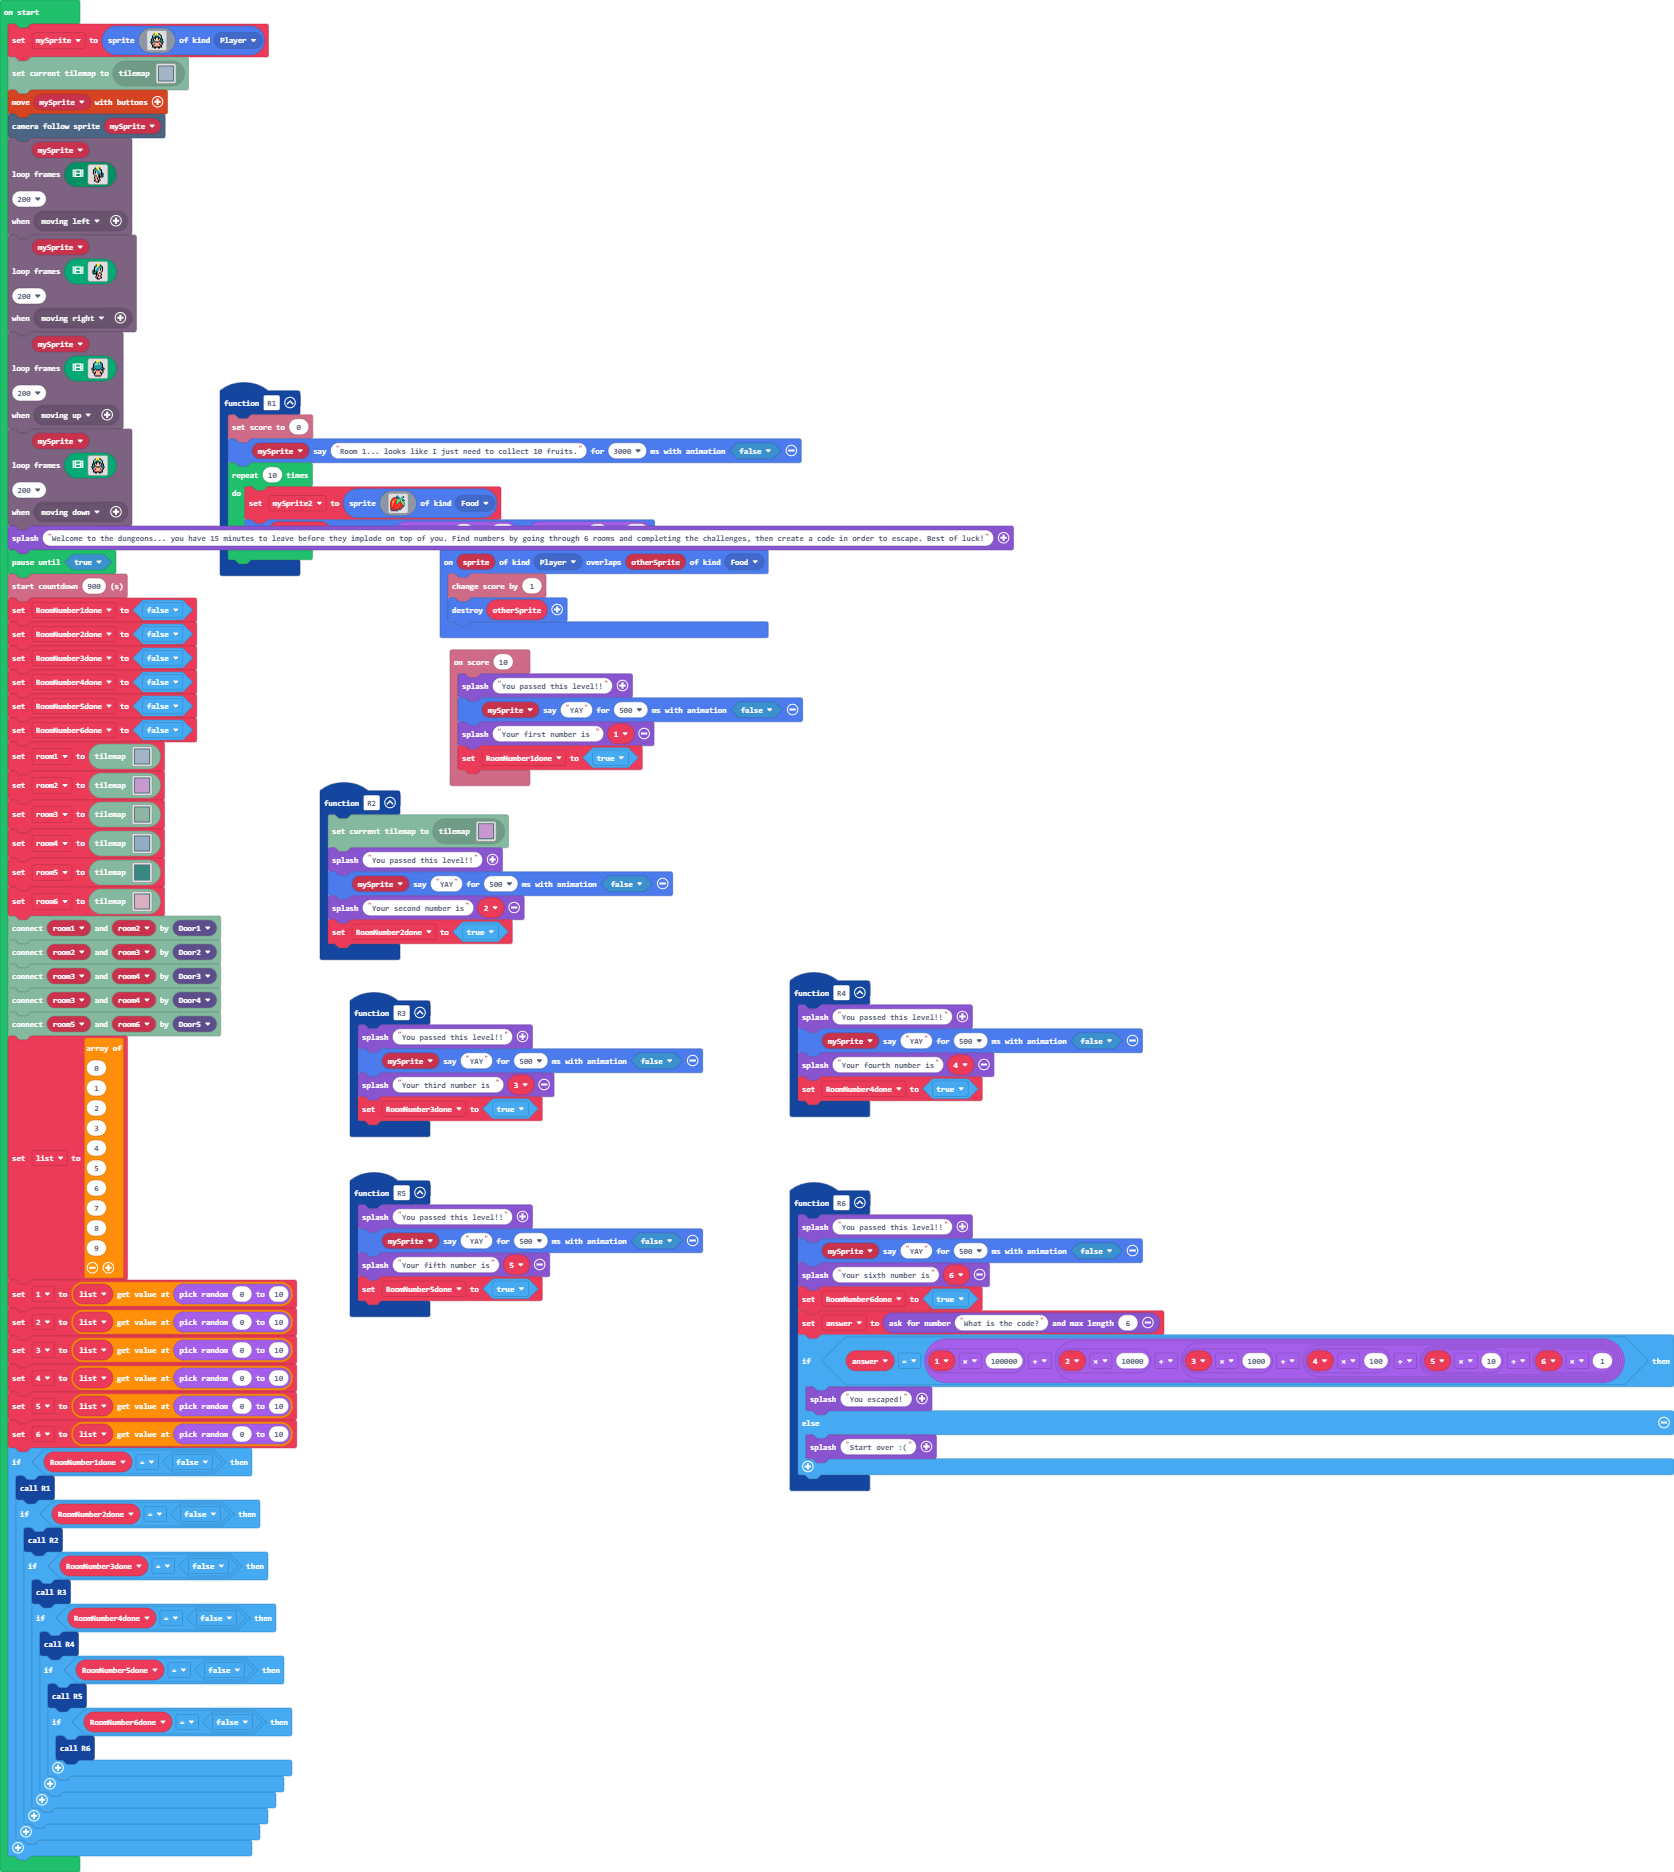
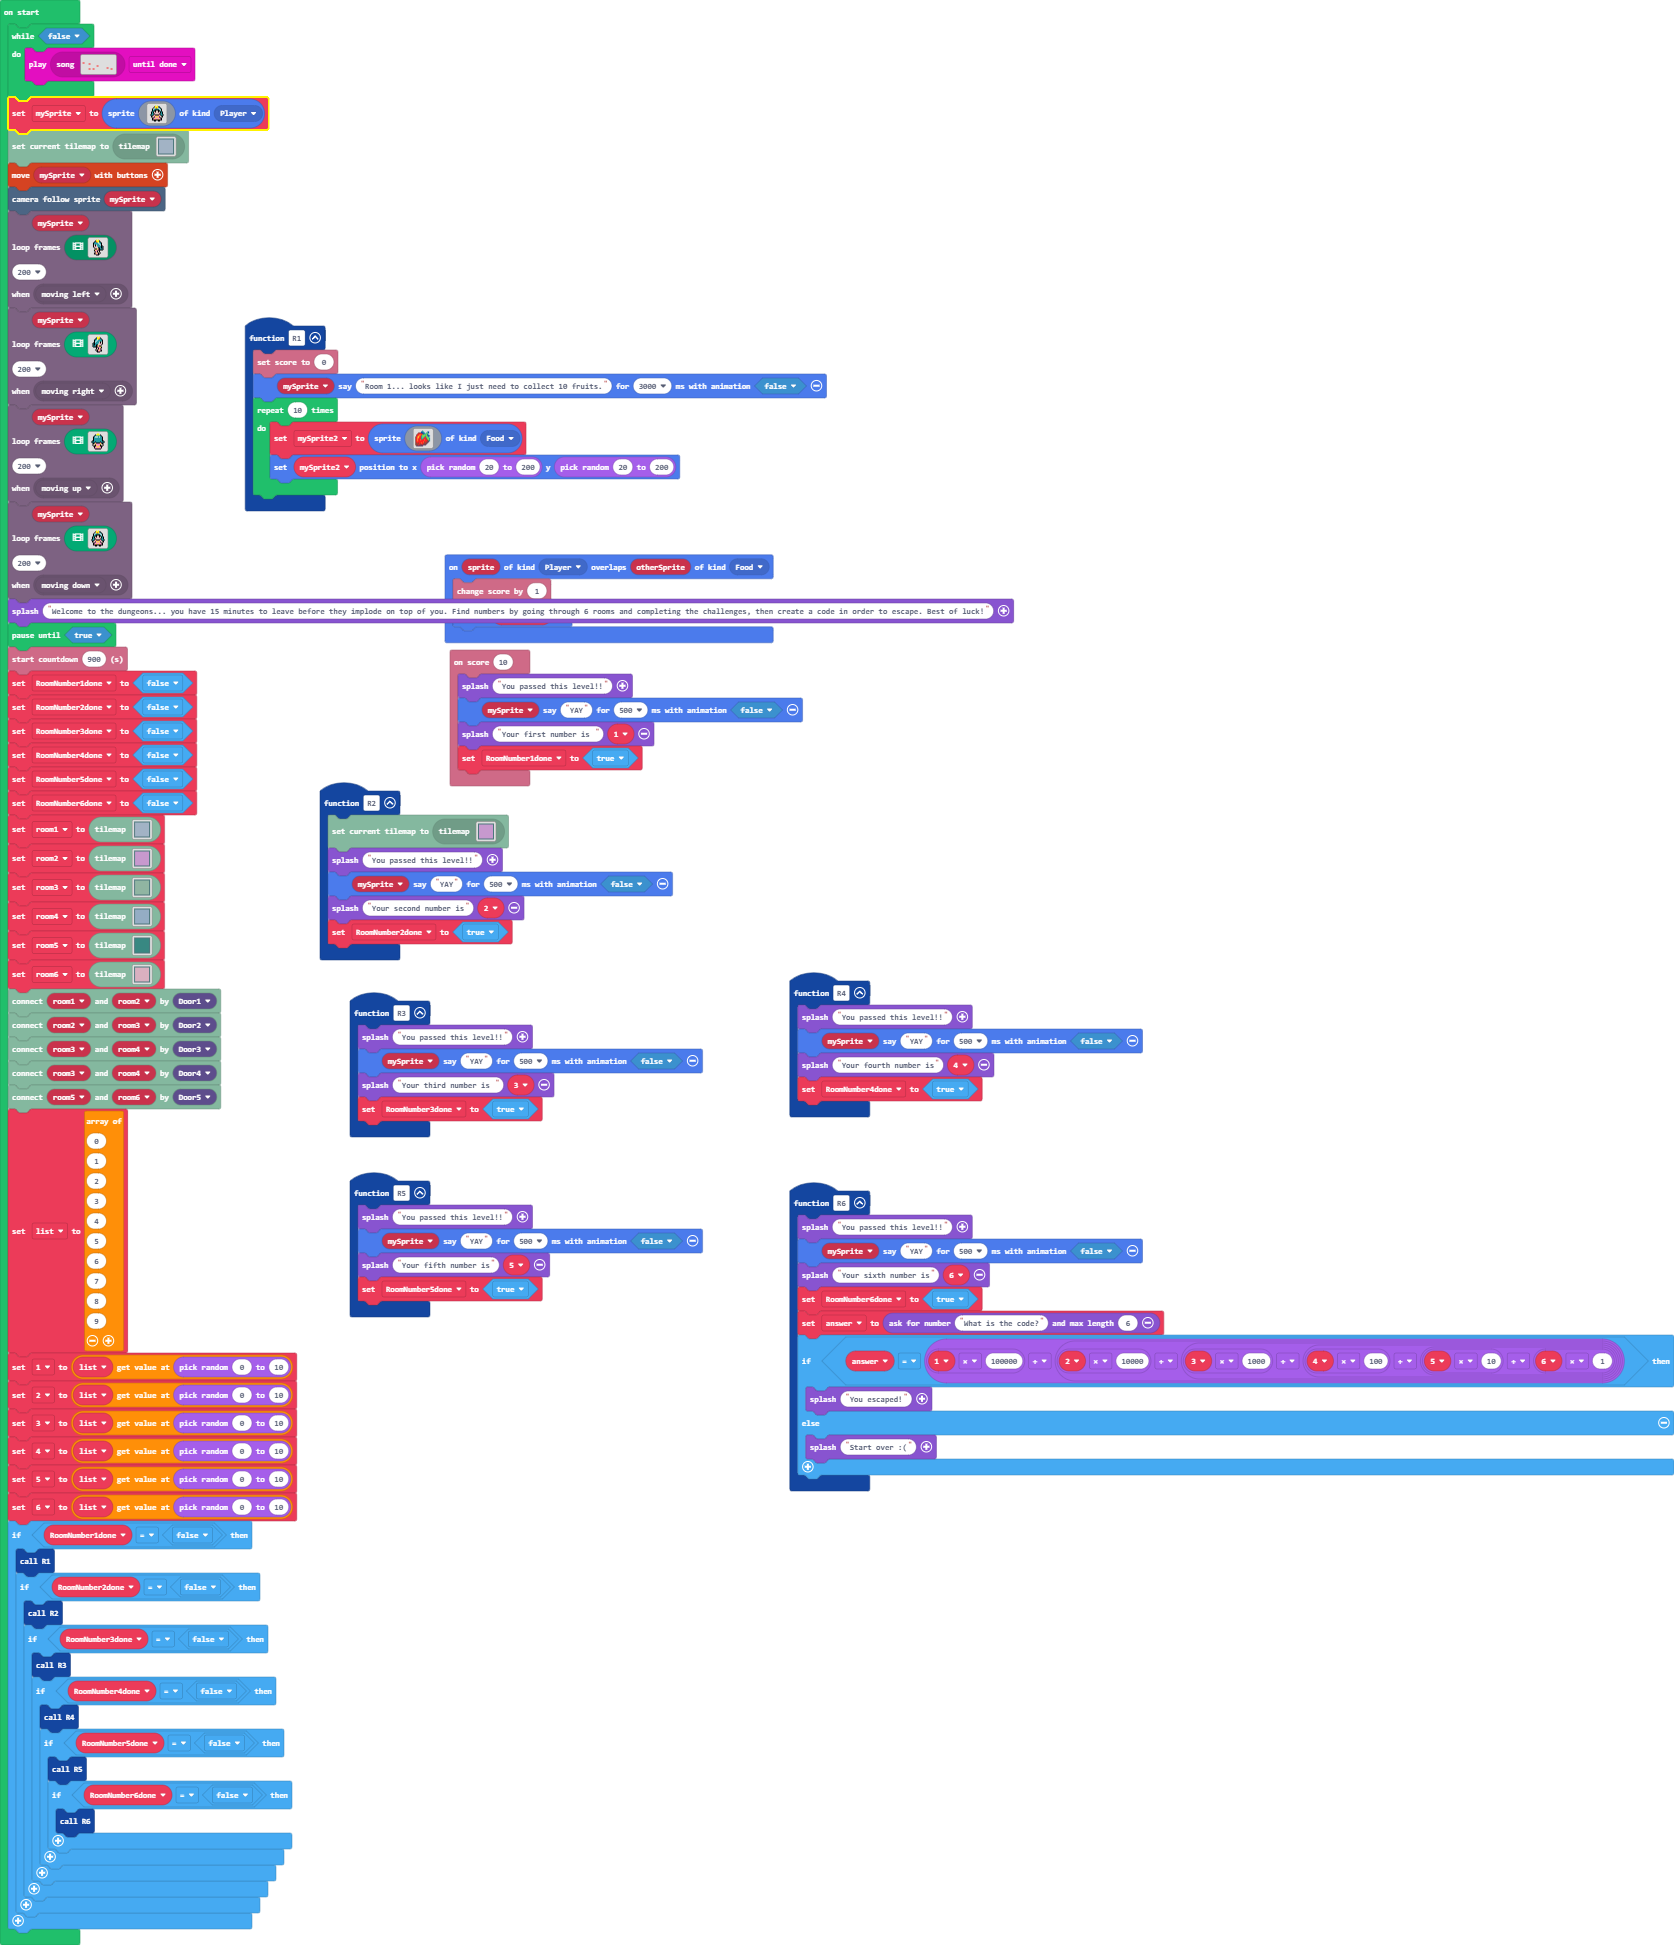
Update main.blocks, main.ts

diff --git a/main.ts b/main.ts
@@ -90,6 +90,9 @@ let _4 = 0
 let _3 = 0
 let _2 = 0
 let _1 = 0
+while (false) {
[1 lines of base64/hex data omitted]
+}
 mySprite = sprites.create(img`
     . . . . . . 5 . 5 . . . . . . . 
     . . . . . f 5 5 5 f f . . . . . 
